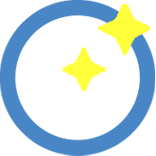
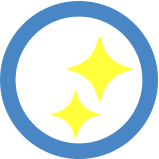
Update de título y botón

diff --git a/kaleidoscopio/sidebar.html b/kaleidoscopio/sidebar.html
@@ -42,7 +42,7 @@
 /* LAYOUT */
 .lateral-container,.lateral-color,
 .lateral-color:hover,.lateral-color:active {
-    background-color:#ffc001!important;
+    background-color:#febf2e!important;
 }
 .lateral-container {
     height:100%;
@@ -146,7 +146,7 @@
     }
 }
 </style>
-<img src="img/boton-logo.png" class="lateral-boton-open" onclick="w3_open()">
+<img src="img/boton-logo.gif" class="lateral-boton-open" onclick="w3_open()">
 <div class="lateral-sidebar lateral-animate-right lateral-sidebar" id="MVMSidebar">
     <div class="lateral-div-close" onclick="w3_close()"><img src="img/boton-logo.png" class="lateral-boton-close"></div>
     <div class="lateral-container">
@@ -158,7 +158,7 @@
         <div class="lateral-text-black styled-scrollbars lateral-main">
             <div class="lateral-tab" id="lateral-aplicacion">
                 <div style="text-align:left;" class="lateral-padding-large">
-                    <div style="text-align:center;"><div class="lateral-black lateral-round-large" style="display:inline-block;width:300px;"><img src="img/titulo.png" style="width:100%;"></div></div>
+                    <div style="text-align:center;"><img src="img/titulo.png" style="width:60%;"></div>
                     <p>
                         Se pueden usar signos matemáticos en el texto: \(a \ne 0\),  \(ax^2 + bx + c = 0\), o como nueva línea:
                             \[x = {-b \pm \sqrt{b^2-4ac} \over 2a}\]

diff --git a/kaleidoscopio/kaleidoscopio.js b/kaleidoscopio/kaleidoscopio.js
@@ -88,7 +88,7 @@ function setup() {
         imageWidth: 400,
         // imageHeight: 200,
         // imageAlt: 'Custom image',
-        html: '<img onclick="Swal.close()" src="img/titulo.png" style="width:100%" title="Caleidoscopio">',
+        html: '<img onclick="Swal.close()" src="img/titulo_circular.png" style="width:100%;cursor: pointer;" title="Caleidoscopio">',
         showCloseButton: false,
         showConfirmButton: false,
         showCancelButton: false,

diff --git a/kaleidoscopio/style.css b/kaleidoscopio/style.css
@@ -162,4 +162,6 @@ sm {
 .icoimg {
     border-radius:100%;
 }
-
+.swal2-popup {
+    background: transparent!important;
+}
